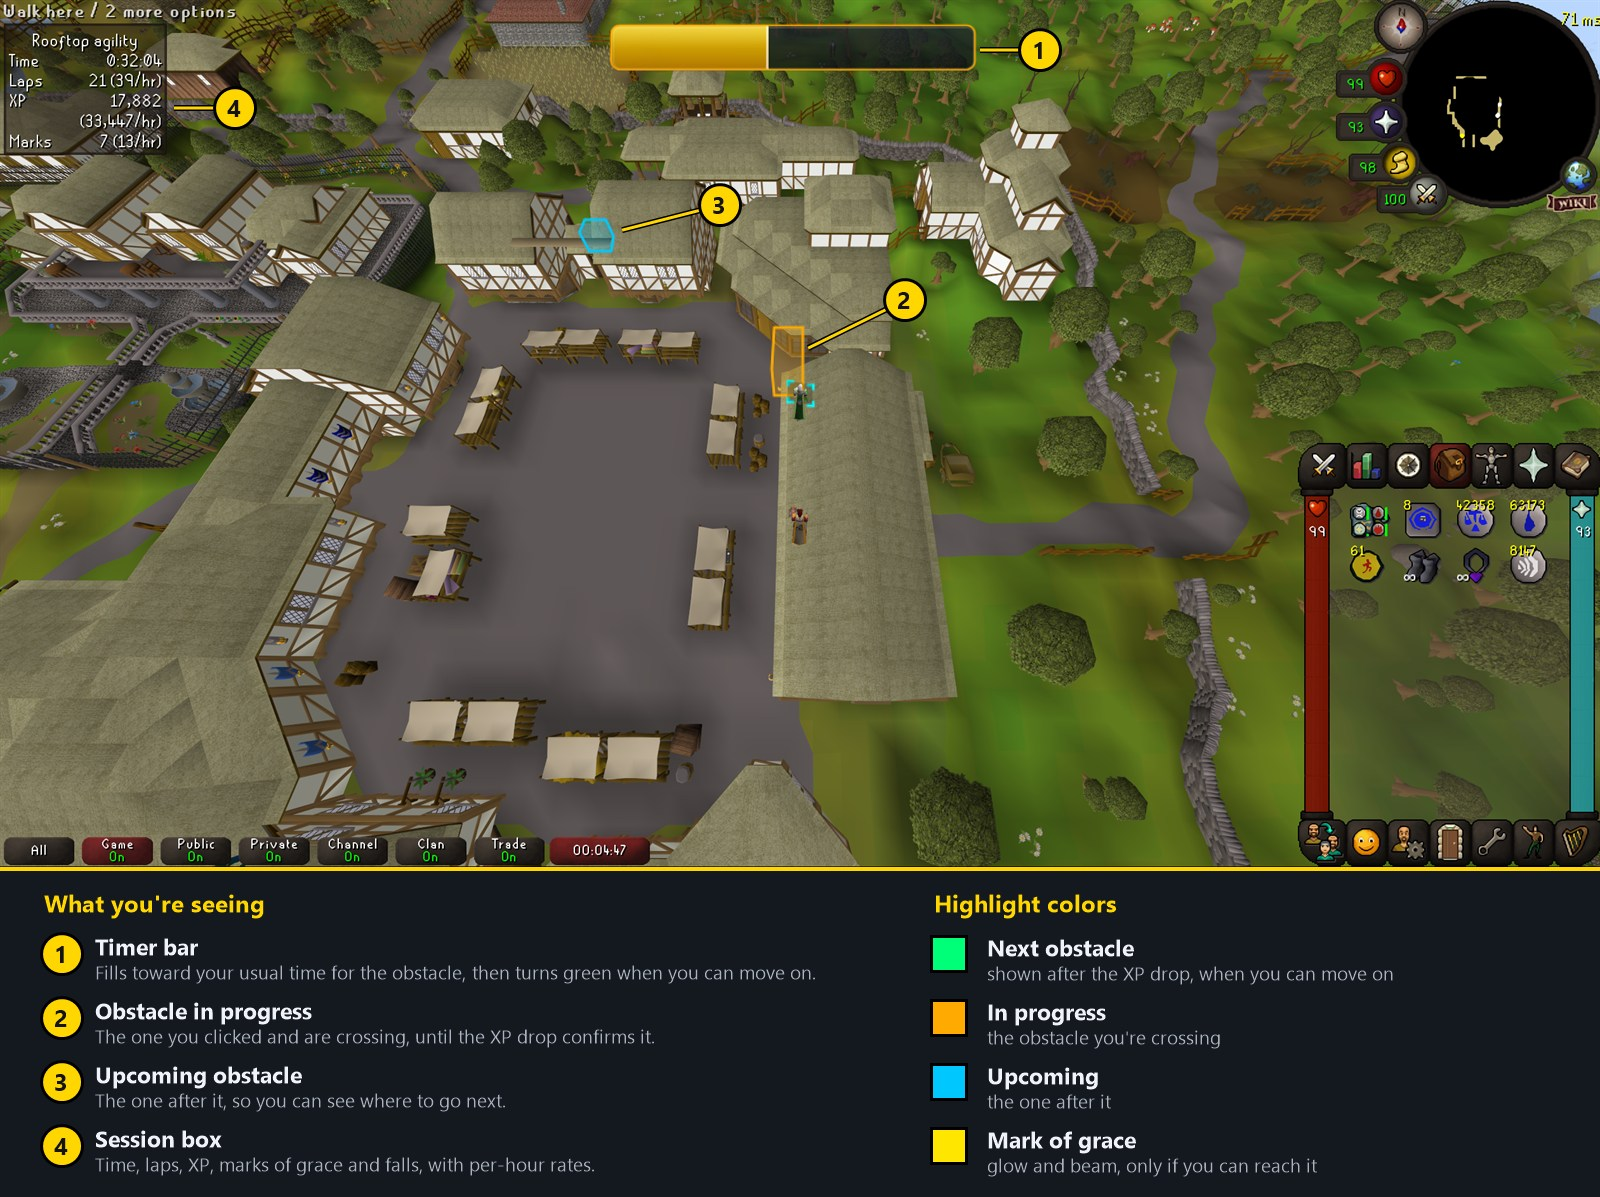
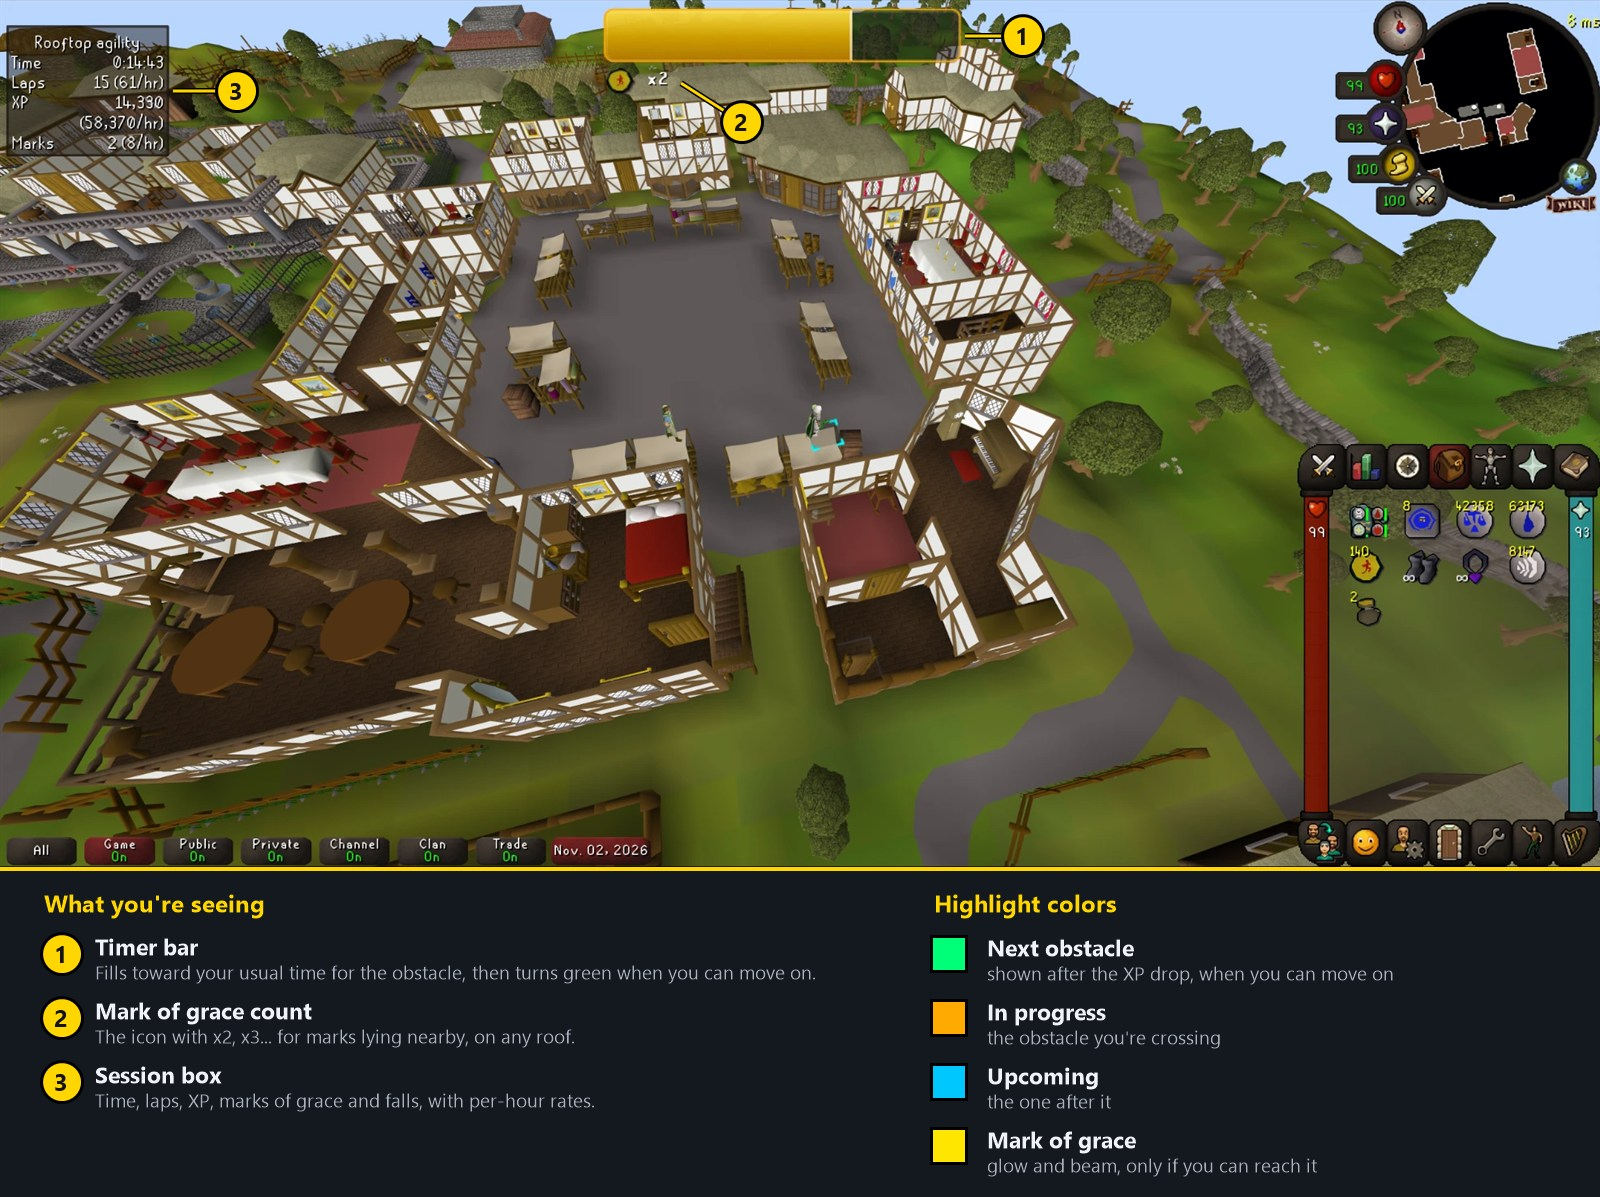
Use the new Ardougne screenshot with numbered markers and a legend

diff --git a/README.md b/README.md
@@ -4,7 +4,7 @@ Shows you the next obstacle on rooftop agility courses, with a crossing timer, m
 box. A transparent mode darkens the game and lets a video show through, so rooftops can be run AFK while you watch
 something else. It only draws on screen: it never clicks or moves for you.
 
-![Rooftop Guide on the Ardougne course, with numbered markers for the timer bar (1), the obstacle in progress (2), the upcoming obstacle (3) and the session box (4), and a legend of the highlight colors](https://raw.githubusercontent.com/glurftgim/rooftop-guide/main/screenshots/main.jpg)
+![Rooftop Guide on the Ardougne course, with numbered markers for the timer bar (1), the mark of grace count (2) and the session box (3), and a legend of the highlight colors](https://raw.githubusercontent.com/glurftgim/rooftop-guide/main/screenshots/main.jpg)
 
 ## Features
 
